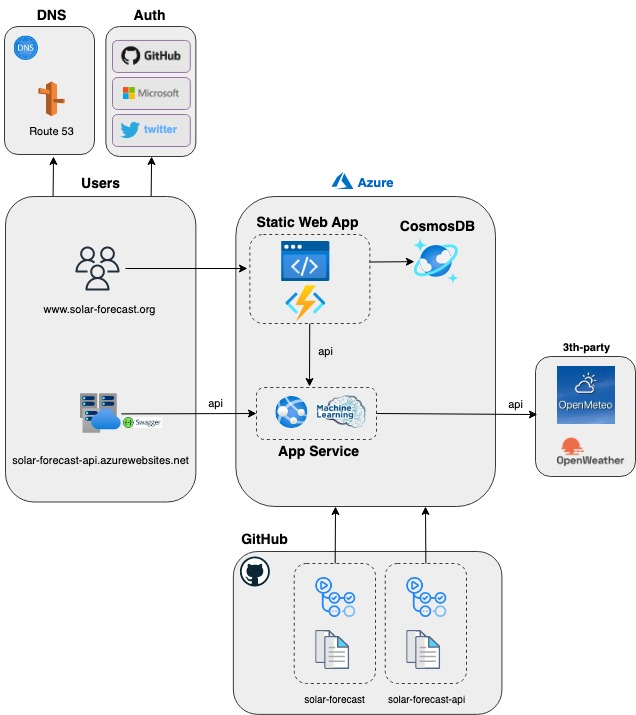
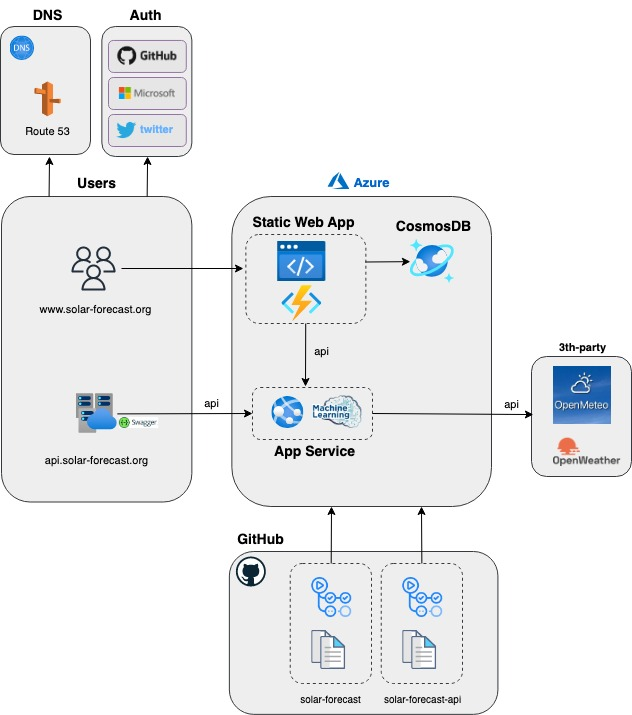
edit images and README for api url

diff --git a/README.md b/README.md
@@ -6,7 +6,7 @@
 
 # Solar - Forecast
 
-TOC:
+OC:
 
 1. Intro
 2. Concept
@@ -28,7 +28,7 @@ TOC:
 - `Energy Prediction` (kWh) for the next 7 days (or 48h)
 - `Typical Prediction` (kWh) per month and `Total`per year
 
-<img src= "./img/solar-forecast_UI_browser.jpg" width="400px">
+<img src= "./img/solar-forecast_UI_browser.jpg" width="600px">
 
 ## 2. Concept
 
@@ -36,11 +36,15 @@ There are 2 parts:
 
 **API:**
 
-This is the main part, typically used as a service for a HEMS (Home Energy Management System). An API [solar-forecast-api](https://solar-forecast-api.azurewebsites.net) that gets the `installation data` in the body of a POST request and provides a response for the `clear sky` or `prediction`. You can optionaly specify a "weather provider" (open-meteo or openweathermap) by adding a "query" parameter `provider`in the POST request.
+[api.solar-forecast.org](https://api.solar-forecast.org) is the main part, typically used as a service for a HEMS (Home Energy Management System). The API gets the `installation data` in the body of a POST request and provides a response for the `clear sky` or `prediction`. You can optionaly specify a "weather provider" (open-meteo or openweathermap) by adding a "query" parameter `provider` in the POST request.
+
+See [details](https://api.solar-forecast.org/docs) or `perform tests` in the `swagger` documentation.
+
+**Example:**
 
 ```
 curl -X 'POST' \
-  'https://solar-forecast-api.azurewebsites.net/forecast?provider=openmeteo' \
+  'https://api.solar-forecast.org/forecast?provider=openmeteo' \
   -H 'accept: application/json' \
   -H 'Content-Type: application/json' \
   -d '{
